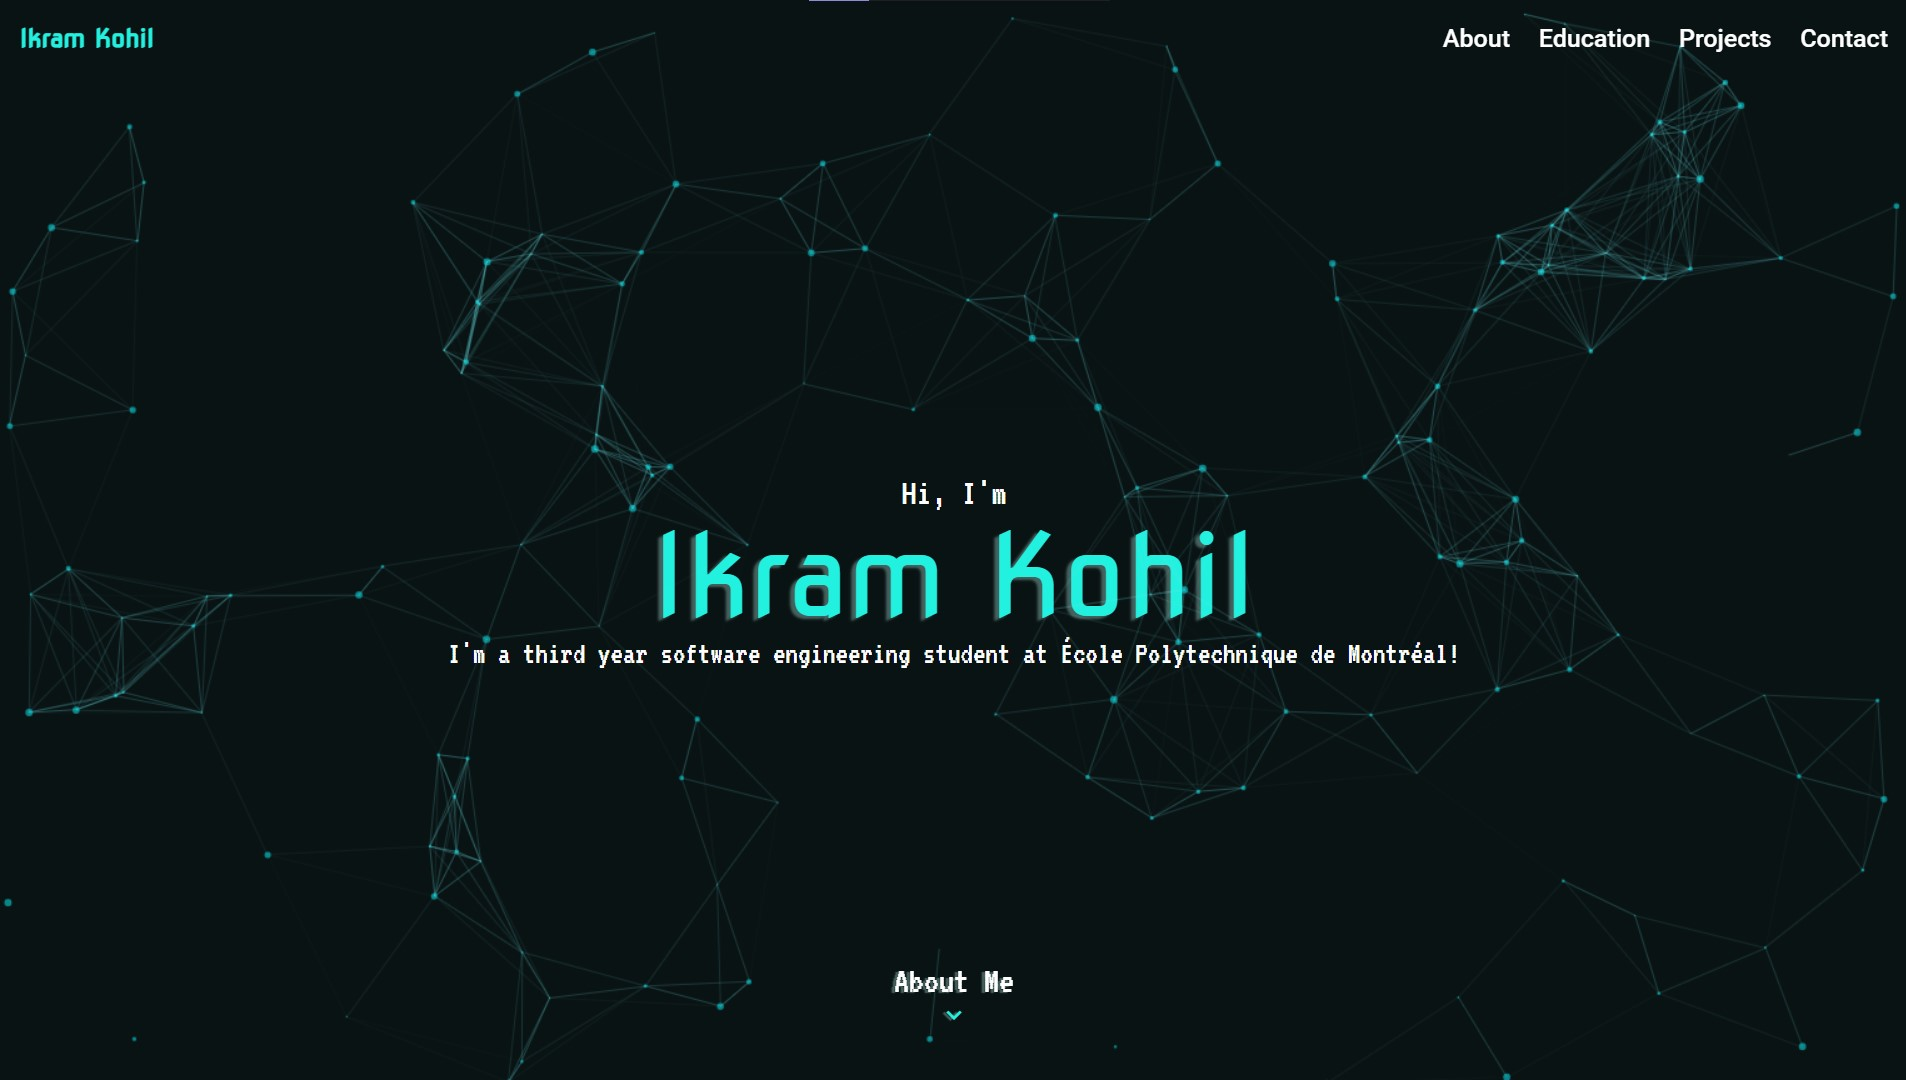
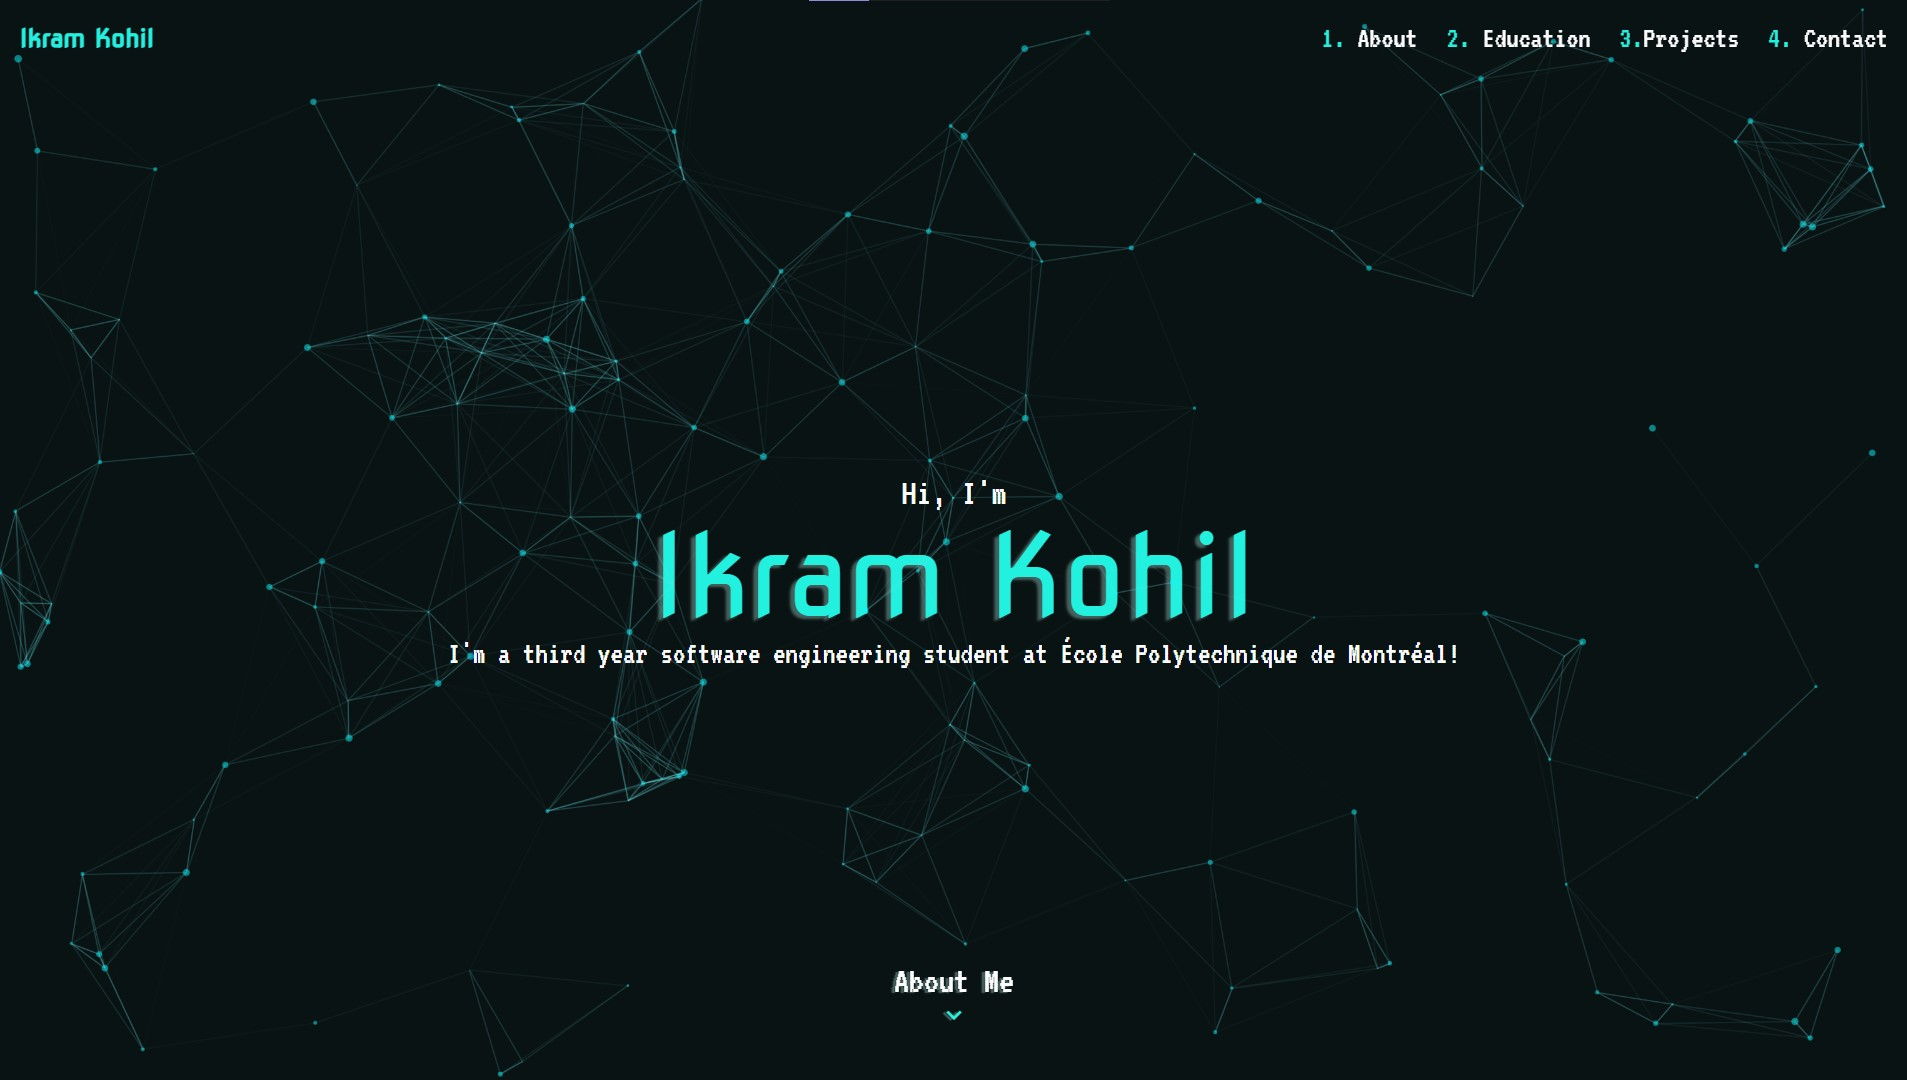
Added responsive media queries and updated fonts

diff --git a/src/index.html b/src/index.html
@@ -2,9 +2,10 @@
 <html lang="en">
 <head>
   <meta charset="utf-8">
+  <!-- <meta name="viewport" content="width=device-width" /> -->
   <title>Ikram Kohil</title>
   <base href="/">
-  <meta name="viewport" content="width=device-width, initial-scale=1">
+  <meta name="viewport" content="width=device-width, initial-scale=1 minimum-scale=1">
   <link rel="icon" type="image/x-icon" href="favicon.ico">
   <link rel="preconnect" href="https://fonts.gstatic.com">
   <link href="https://fonts.googleapis.com/css2?family=Roboto:wght@300;400;500&display=swap" rel="stylesheet">
@@ -28,6 +29,9 @@
   <link rel="preconnect" href="https://fonts.googleapis.com">
   <link rel="preconnect" href="https://fonts.gstatic.com" crossorigin>
   <link href="https://fonts.googleapis.com/css2?family=Share+Tech+Mono&display=swap" rel="stylesheet">
+  <link rel="preconnect" href="https://fonts.googleapis.com">
+  <link rel="preconnect" href="https://fonts.gstatic.com" crossorigin>
+  <link href="https://fonts.googleapis.com/css2?family=Dosis:wght@200&display=swap" rel="stylesheet">
 </head>
 <body class="mat-typography">
   <app-root></app-root>

diff --git a/src/app/components/project-card/project-card.component.scss b/src/app/components/project-card/project-card.component.scss
@@ -23,9 +23,8 @@ h1{
 }
 
 .project-img-overlay {
-    background-color: black;
     position: relative;
-    width: 33.33%;
+    width: 50%;
 }
 
 .project-img {
@@ -85,8 +84,39 @@ h1{
     display: flex;
     flex-direction: column;
     padding-left: 1vw;
+    width: 75%;
+    text-align: justify;
+}
+
+.content p {
+    font-family: monaco, Consolas, "Lucida Console", monospace; 
+    font-size: 20px;
+    font-variant: normal;
+    line-height: 3.25vh;
 }
 
 .year {
     padding-right: 1vw;
+}
+
+@media screen and (max-width:900px) {
+
+    .project-desc {
+        flex-direction: column;
+    }
+
+    .project-img {
+        width: 100%;
+    }
+
+    .project-img-overlay {
+        background-color: black;
+        position: relative;
+        width: 100%;
+    }
+
+    .content {
+        width: 100%;
+    }
+    
 }

diff --git a/src/app/pages/contact-me-page/contact-me-page.component.scss b/src/app/pages/contact-me-page/contact-me-page.component.scss
@@ -93,3 +93,15 @@ h2 {
 //     font-weight: 600;
 //     // transition: font-weight 0.5s;
 // }
+
+@media screen and (max-width:900px) {
+
+    .contacts-list {
+        display: block;
+    // flex-direction: column;
+        justify-content: left;
+        align-items: left;
+        padding: 0;
+    }
+    
+}

diff --git a/src/app/pages/about-me-page/about-me-page.component.scss b/src/app/pages/about-me-page/about-me-page.component.scss
@@ -47,7 +47,7 @@ h2 {
     width: 70%;
     text-align: justify;
     // font-family: 'Nunito Sans', sans-serif;
-    font-family: 'Text Me One', sans-serif;
+    font-family: monaco, Consolas, "Lucida Console", monospace; 
     font-size: 20px;
     font-weight: 500;
     color: var(--font-color-pages);
